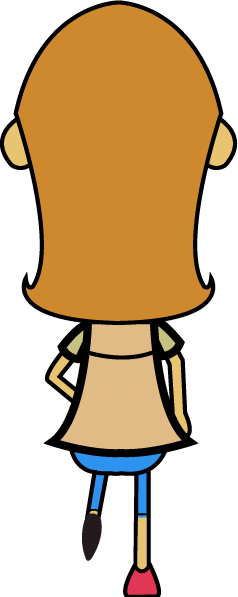
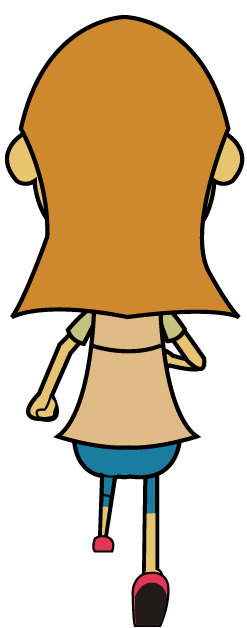
- Atualizados frames de maria correndo no abte bola;
- Centralizadas respostas pegas no bate bola;

Changed region(s): [[0.0, 0.0, 1.0, 1.0]]

diff --git a/Project/Project/game_states/RunnerState.cs b/Project/Project/game_states/RunnerState.cs
@@ -15,6 +15,13 @@ using game_objects.ui;
 
 namespace game_states
 {
+    public enum RunnerLevel
+    {
+        EASY,
+        MEDIUM,
+        HARD
+    }
+
     public class RunnerState : GameState
     {
         #region Variables Declaration
@@ -168,11 +175,15 @@ namespace game_states
                 questions = new List<QuestionGameObject>();
 
                 questionHeader = new TextBox(goManager.R2D);
-                questionHeader.FontSize = 40;
-                questionHeader.DropShadow = true;
+                questionHeader.FontSize = 60;
+                questionHeader.TextColor = new Color(245, 236, 222);
+                questionHeader.Outline = true;
+                questionHeader.OutlineColor = new Color(111, 129, 129);
+                questionHeader.OutlineWeight = 2;
                 questionHeader.Alignment = TextAlignment.CENTER;
                 questionHeader.Width = 1024;
                 questionHeader.Height = 100;
+                questionHeader.Y = 5;
                 
                 string path = "Imagem" + Path.AltDirectorySeparatorChar + "ui" + Path.AltDirectorySeparatorChar + "bate_bola"+ 
                     Path.AltDirectorySeparatorChar+"respostas_e_pontos"+ Path.AltDirectorySeparatorChar;
@@ -227,8 +238,9 @@ namespace game_states
                 foreach (char c in answer.Text)
                 {
                     Vector3 position = answersSupports.GetClonePosition(answersGotLbl.Count);
-                    position.Y -= 50;
                     TextBox answerLbl = CreateLabel(c.ToString(), position);
+                    answerLbl.Y -= answersSupports.Height;
+                    answerLbl.Y -= answerLbl.Height;
                     answersSupports.AdvanceCloneFrame(answersGotLbl.Count);
                     answersGotLbl.Add(answerLbl);
                     goManager.AddObject(answerLbl);
@@ -244,12 +256,13 @@ namespace game_states
         {
             TextBox answerLbl = new TextBox(goManager.R2D);
             answerLbl.Text = text;
+            answerLbl.TextColor = Color.LightPink;
             answerLbl.Alignment = TextAlignment.CENTER;
             answerLbl.Position = position;
-            answerLbl.FontSize = (int)(50 * (answersSupports.Width/93)); //escalona o tamanho da fonte caso o suporte tenha sido reduzido
+            answerLbl.FontSize = (int)(60 * (answersSupports.Width/93)); //escalona o tamanho da fonte caso o suporte tenha sido reduzido
             answerLbl.DropShadow = true;
             answerLbl.Width = answersSupports.Width;
-            answerLbl.Height = 40;
+            answerLbl.Height = 25;
 
             return answerLbl;
         }
@@ -269,7 +282,7 @@ namespace game_states
             CreateAnswersSupports();
 
             questions[questions.Count - 1].Player = player;
-            questions[questions.Count - 1].Position = new Vector3(0, 0.25f, 5);
+            questions[questions.Count - 1].Position = new Vector3(0, 0f, 5);
 
         }
 
@@ -293,18 +306,27 @@ namespace game_states
                 charCount += answer.Length;
             }
 
-            float widthScale = 1;
-            float baseWidht = 93;
-            float padding = 2;
             answersSupports.RepeatAmount = new Vector2(charCount, 1);
-            float totalWidht = baseWidht * (answersSupports.RepeatAmount.X+1) + padding * (1+answersSupports.RepeatAmount.X) * 2;
+
+            float widthScale = 1;
+            float baseWidth = 93;
+            float padding = 2;
+            float totalWidth = baseWidth * (answersSupports.RepeatAmount.X) +padding * (answersSupports.RepeatAmount.X);
+
             Viewport screen = parent.GraphicsDevice.Viewport;
-            if (totalWidht > screen.Width)
+
+            if (totalWidth > screen.Width)
             {
-                widthScale = screen.Width / totalWidht;
+                widthScale = screen.Width / totalWidth;
             }
-            answersSupports.Width = 93 * widthScale;
-            answersSupports.X = (screen.Width - totalWidht) / 2;
+
+            totalWidth *= widthScale;
+
+            answersSupports.Width = baseWidth * widthScale;
+            
+            answersSupports.X = (screen.Width - totalWidth) / 2;
+
+            float remaining = screen.Width - answersSupports.X - totalWidth;
         }
 
         private void ChangeCurrentQuestion()
@@ -318,7 +340,7 @@ namespace game_states
             if (questions.Count > 0)
             {
                 goManager.AddObject(questions[questions.Count - 1]);
-                questions[questions.Count - 1].Position = new Vector3(0, 0.25f, player.Position.Z + 5);
+                questions[questions.Count - 1].Position = new Vector3(0, 0.25f, player.Position.Z + 16);
                 questions[questions.Count - 1].Player = player;
                 questionHeader.Text = questions[questions.Count - 1].Header;
                 ResetAnswersDisplay();

diff --git a/Project/Project/game_objects/ui/TextBox.cs b/Project/Project/game_objects/ui/TextBox.cs
@@ -55,6 +55,13 @@ namespace game_objects.ui
 
         private Vector2 shadowOffset;
 
+
+        private const float MAX_OUTLINE_WEIGHT = 2f;
+
+        private bool outline;
+        private Color outlineColor;
+        private float outlineWeight;
+
         public DisplayType Display
         {
             get { return display; }
@@ -162,6 +169,33 @@ namespace game_objects.ui
             set { shadowOffset = value; }
         }
 
+        public bool Outline
+        {
+            get { return outline; }
+            set { outline = value; }
+        }
+
+        /// <summary>
+        /// The thickness of the outline, ranging from 0.0 to 2.0.
+        /// </summary>
+        public float OutlineWeight
+        {
+            get { return outlineWeight; }
+            set
+            {
+                if (value < 0) value = 0;
+                if (value > MAX_OUTLINE_WEIGHT) value = MAX_OUTLINE_WEIGHT;
+
+                outlineWeight = value;
+            }
+        }
+
+        public Color OutlineColor
+        {
+            get { return outlineColor; }
+            set { outlineColor = value; }
+        }
+
         public TextBox(Renderer2D r2d)
             : base(r2d)
         {
@@ -174,6 +208,7 @@ namespace game_objects.ui
             this.textColor = Color.White;
             this.shadowColor = Color.Black;
             this.shadowOffset = Vector2.One;
+            this.outlineColor = Color.Black;
         }
 
         public override void Load(ContentManager cManager)
@@ -355,6 +390,12 @@ namespace game_objects.ui
                 {
                     ((Renderer2D)Renderer).DrawString(visibleLine, initialPos, shadowColor, 0, shadowOffset, fontScale);
                 }
+
+                if (Outline)
+                {
+                    DrawOutline(visibleLine, initialPos);
+                }
+
                 ((Renderer2D)Renderer).DrawString(visibleLine, initialPos, textColor, 0, Vector2.Zero, fontScale);
 
 
@@ -365,16 +406,27 @@ namespace game_objects.ui
             }
         }
 
+        private void DrawOutline(string visibleLine, Vector2 initialPos)
+        {
+            for (int i = -1; i <= 1; i++)
+            {
+                for (int j = -1; j <= 1; j++)
+                {
+                    ((Renderer2D)Renderer).DrawString(visibleLine, initialPos, outlineColor, 0, new Vector2(i, j) * outlineWeight, fontScale);
+                }
+            }
+        }
+
         private float AlignLine(Vector2 initialPos, string visibleLine)
         {
             float x = initialPos.X;
             switch (alignment)
             {
                 case TextAlignment.CENTER:
-                    x += (Width - TextHelper.SpriteFont.MeasureString(visibleLine).X*fontScale - padding.X) / 2;
+                    x += (Width - TextHelper.SpriteFont.MeasureString(visibleLine).X * fontScale - padding.X) / 2;
                     break;
                 case TextAlignment.RIGHT:
-                    x += (Width - TextHelper.SpriteFont.MeasureString(visibleLine).X*fontScale);
+                    x += (Width - TextHelper.SpriteFont.MeasureString(visibleLine).X * fontScale);
                     break;
             }
             return x;

diff --git a/Project/Project/game_objects/ui/Repeatable2DGameObject.cs b/Project/Project/game_objects/ui/Repeatable2DGameObject.cs
@@ -52,7 +52,7 @@ namespace game_objects.ui
                 X += Width + padding.X;
                 Y = actualPositon.Y;
             }
-            position = actualPositon;
+            Position = actualPositon;
         }
 
         public void AdvanceCloneFrame(int cloneIndex)
@@ -70,8 +70,8 @@ namespace game_objects.ui
         {
             Vector3 pos = Vector3.Zero;
             if(cloneIndex < currentFrames.Length){
-                pos.X = padding.X * ((cloneIndex+1) % currentFrames.Length) + Width * ((cloneIndex+1) % currentFrames.Length) + X;
-                pos.Y = padding.Y * ((cloneIndex+1) / currentFrames.Length) + Height * ((cloneIndex+1) / currentFrames.Length) + Y;
+                pos.X = padding.X * ((cloneIndex) % currentFrames.Length) + Width * ((cloneIndex) % currentFrames.Length) + X;
+                pos.Y = padding.Y * ((cloneIndex) / currentFrames.Length) + Height * ((cloneIndex) / currentFrames.Length) + Y;
             }
             return pos;
         }

diff --git a/Project/Project/game_objects/ui/Animated2DGameObject.cs b/Project/Project/game_objects/ui/Animated2DGameObject.cs
@@ -84,7 +84,10 @@ namespace game_objects.ui
         public void AdvanceFrames()
         {
             if (++currentFrame >= frames.Length)
+            {
                 currentFrame = 0;
+            }
+                texture = frames[currentFrame];
             Addapt();
         }
 

diff --git a/Project/Project/game_objects/questions/QuestionFactory.cs b/Project/Project/game_objects/questions/QuestionFactory.cs
@@ -3,6 +3,7 @@ using System.Collections.Generic;
 using System.Linq;
 using System.Text;
 using Project;
+using game_states;
 
 namespace game_objects.questions
 {
